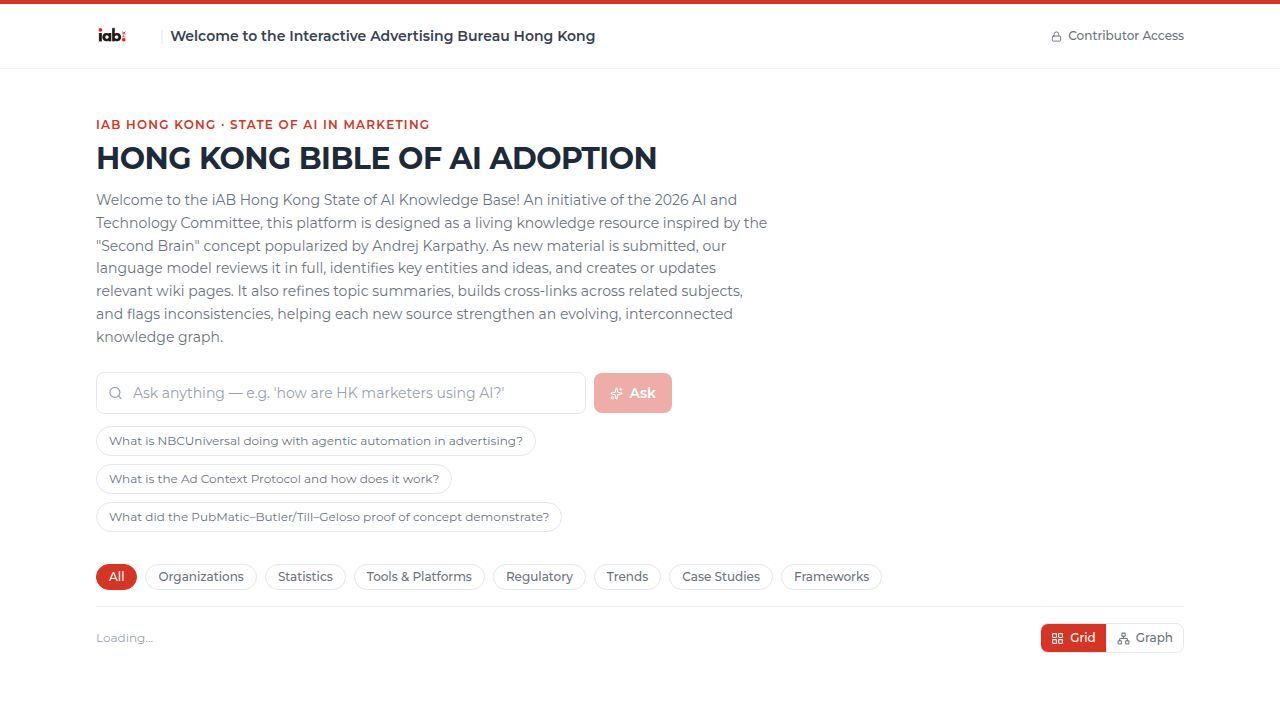
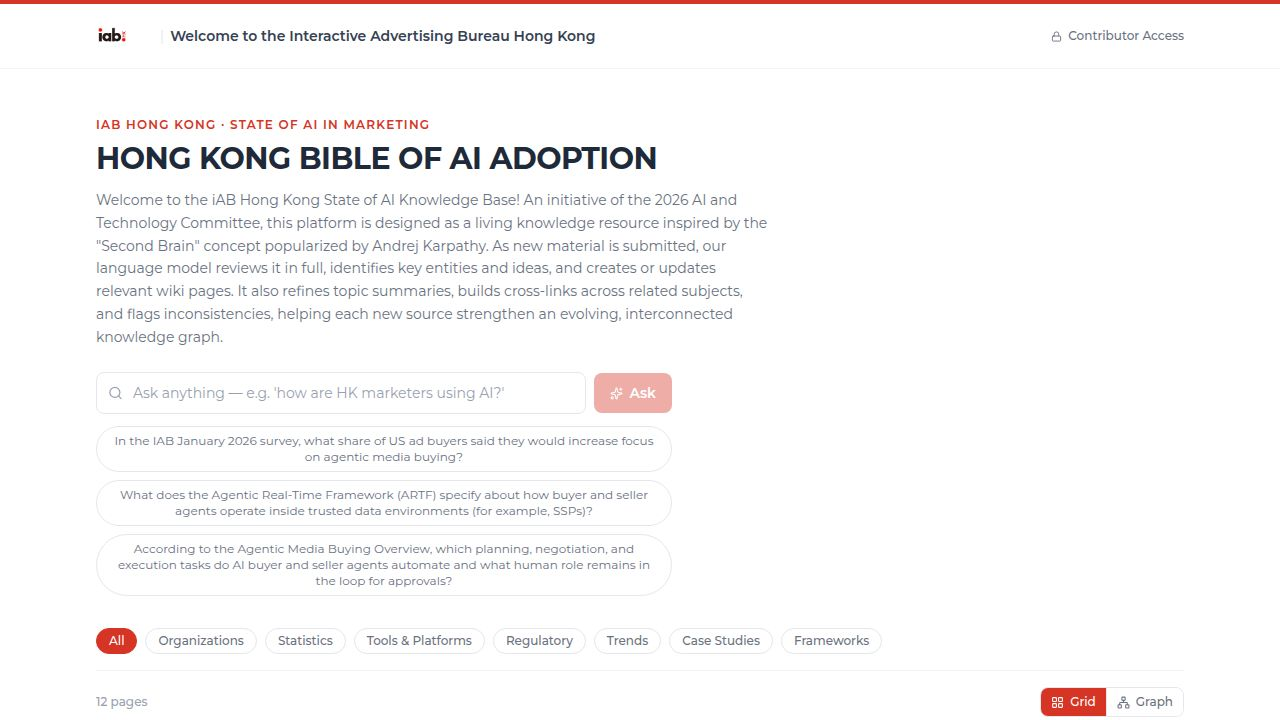
Update embedding model to use Zhipu AI and increase dimension size
Adjusted embedding dimension to 2048, switched model to `embedding-3` from Zhipu AI, and removed HNSW index from the knowledge chunks schema.

Replit-Commit-Author: Agent
Replit-Commit-Session-Id: 4fdfa4ed-1ef1-496b-b47b-3b26ed1f0de5
Replit-Commit-Checkpoint-Type: full_checkpoint
Replit-Commit-Event-Id: cda4ac3b-a8b1-4d8b-9ab5-ff15d474eed7
Replit-Commit-Screenshot-Url: https://storage.googleapis.com/screenshot-production-us-central1/38522816-e225-4282-b566-f3e580ea7097/4fdfa4ed-1ef1-496b-b47b-3b26ed1f0de5/lwQEKPp
Replit-Helium-Checkpoint-Created: true

diff --git a/artifacts/api-server/src/lib/embeddings.ts b/artifacts/api-server/src/lib/embeddings.ts
@@ -1,19 +1,19 @@
 import OpenAI from "openai";
 
-export const EMBEDDING_DIM = 1536;
+export const EMBEDDING_DIM = 2048;
 
 let client: OpenAI | null = null;
 
 function getClient(): OpenAI {
   if (!client) {
-    const baseURL = process.env["AI_INTEGRATIONS_OPENAI_BASE_URL"];
-    const apiKey = process.env["AI_INTEGRATIONS_OPENAI_API_KEY"];
-    if (!baseURL || !apiKey) {
-      throw new Error(
-        "AI_INTEGRATIONS_OPENAI_BASE_URL and AI_INTEGRATIONS_OPENAI_API_KEY must be set for embeddings",
-      );
+    const apiKey = process.env["ZHIPU_API_KEY"];
+    if (!apiKey) {
+      throw new Error("ZHIPU_API_KEY must be set for embeddings");
     }
-    client = new OpenAI({ baseURL, apiKey });
+    client = new OpenAI({
+      baseURL: "https://open.bigmodel.cn/api/paas/v4/",
+      apiKey,
+    });
   }
   return client;
 }
@@ -22,14 +22,13 @@ async function embedRaw(texts: string[]): Promise<number[][]> {
   if (texts.length === 0) return [];
   const cleaned = texts.map((t) => t.replace(/\s+/g, " ").trim() || " ");
   const res = await getClient().embeddings.create({
-    model: "text-embedding-3-small",
+    model: "embedding-3",
     input: cleaned,
-    dimensions: EMBEDDING_DIM,
   });
   return res.data.map((d) => d.embedding);
 }
 
-/** Embed a search query into a normalized 1536-dim vector. */
+/** Embed a search query into a normalized 2048-dim vector. */
 export async function embedQuery(text: string): Promise<number[]> {
   const [vec] = await embedRaw([text]);
   return vec;

diff --git a/lib/db/src/schema/knowledgeChunks.ts b/lib/db/src/schema/knowledgeChunks.ts
@@ -2,7 +2,7 @@ import { pgTable, serial, integer, text, timestamp, vector, index } from "drizzl
 
 export type KnowledgeSourceType = "wiki" | "upload";
 
-export const EMBEDDING_DIMENSIONS = 1536;
+export const EMBEDDING_DIMENSIONS = 2048;
 
 export const knowledgeChunksTable = pgTable(
   "knowledge_chunks",
@@ -18,10 +18,6 @@ export const knowledgeChunksTable = pgTable(
     createdAt: timestamp("created_at").notNull().defaultNow(),
   },
   (table) => [
-    index("knowledge_chunks_embedding_idx").using(
-      "hnsw",
-      table.embedding.op("vector_cosine_ops"),
-    ),
     index("knowledge_chunks_source_idx").on(table.sourceType, table.sourceId),
   ],
 );